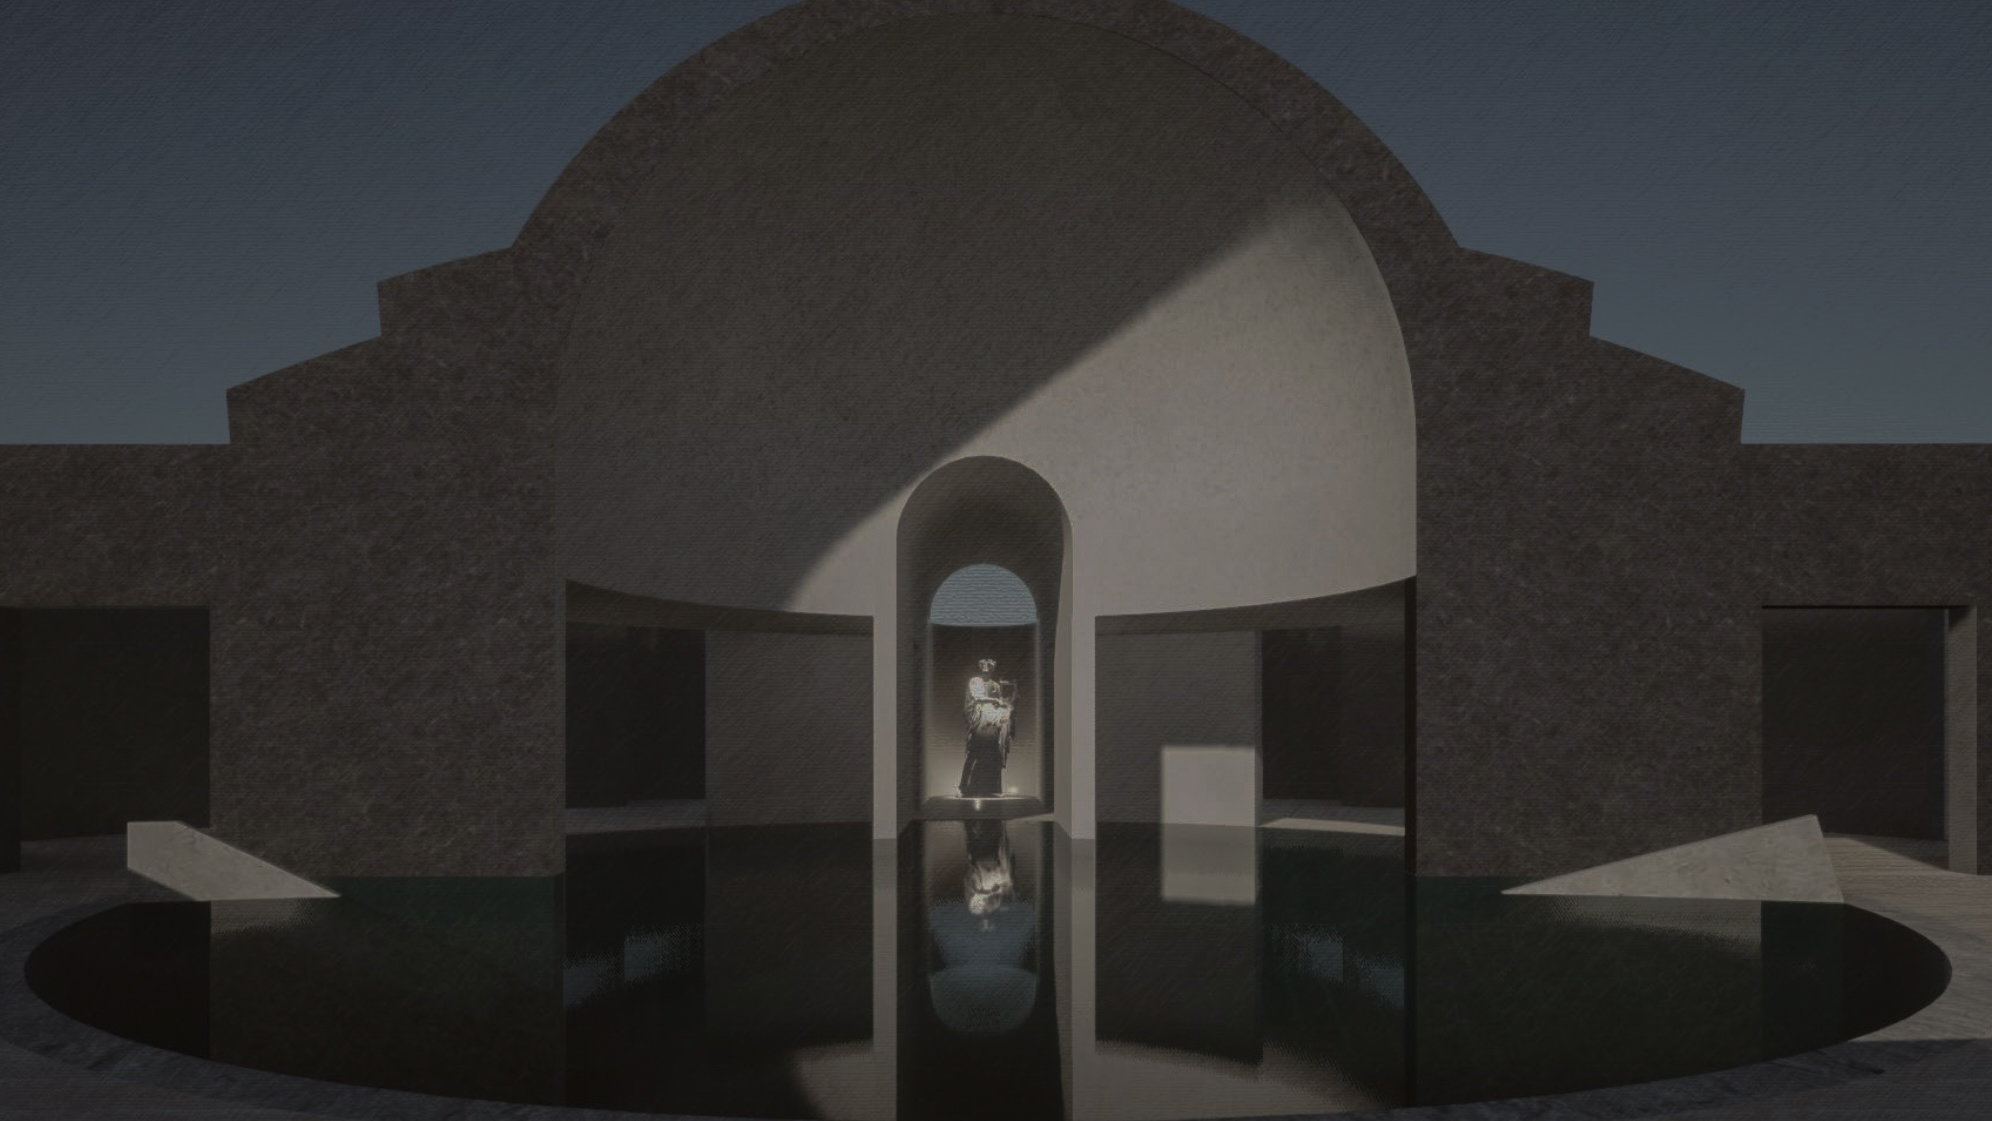
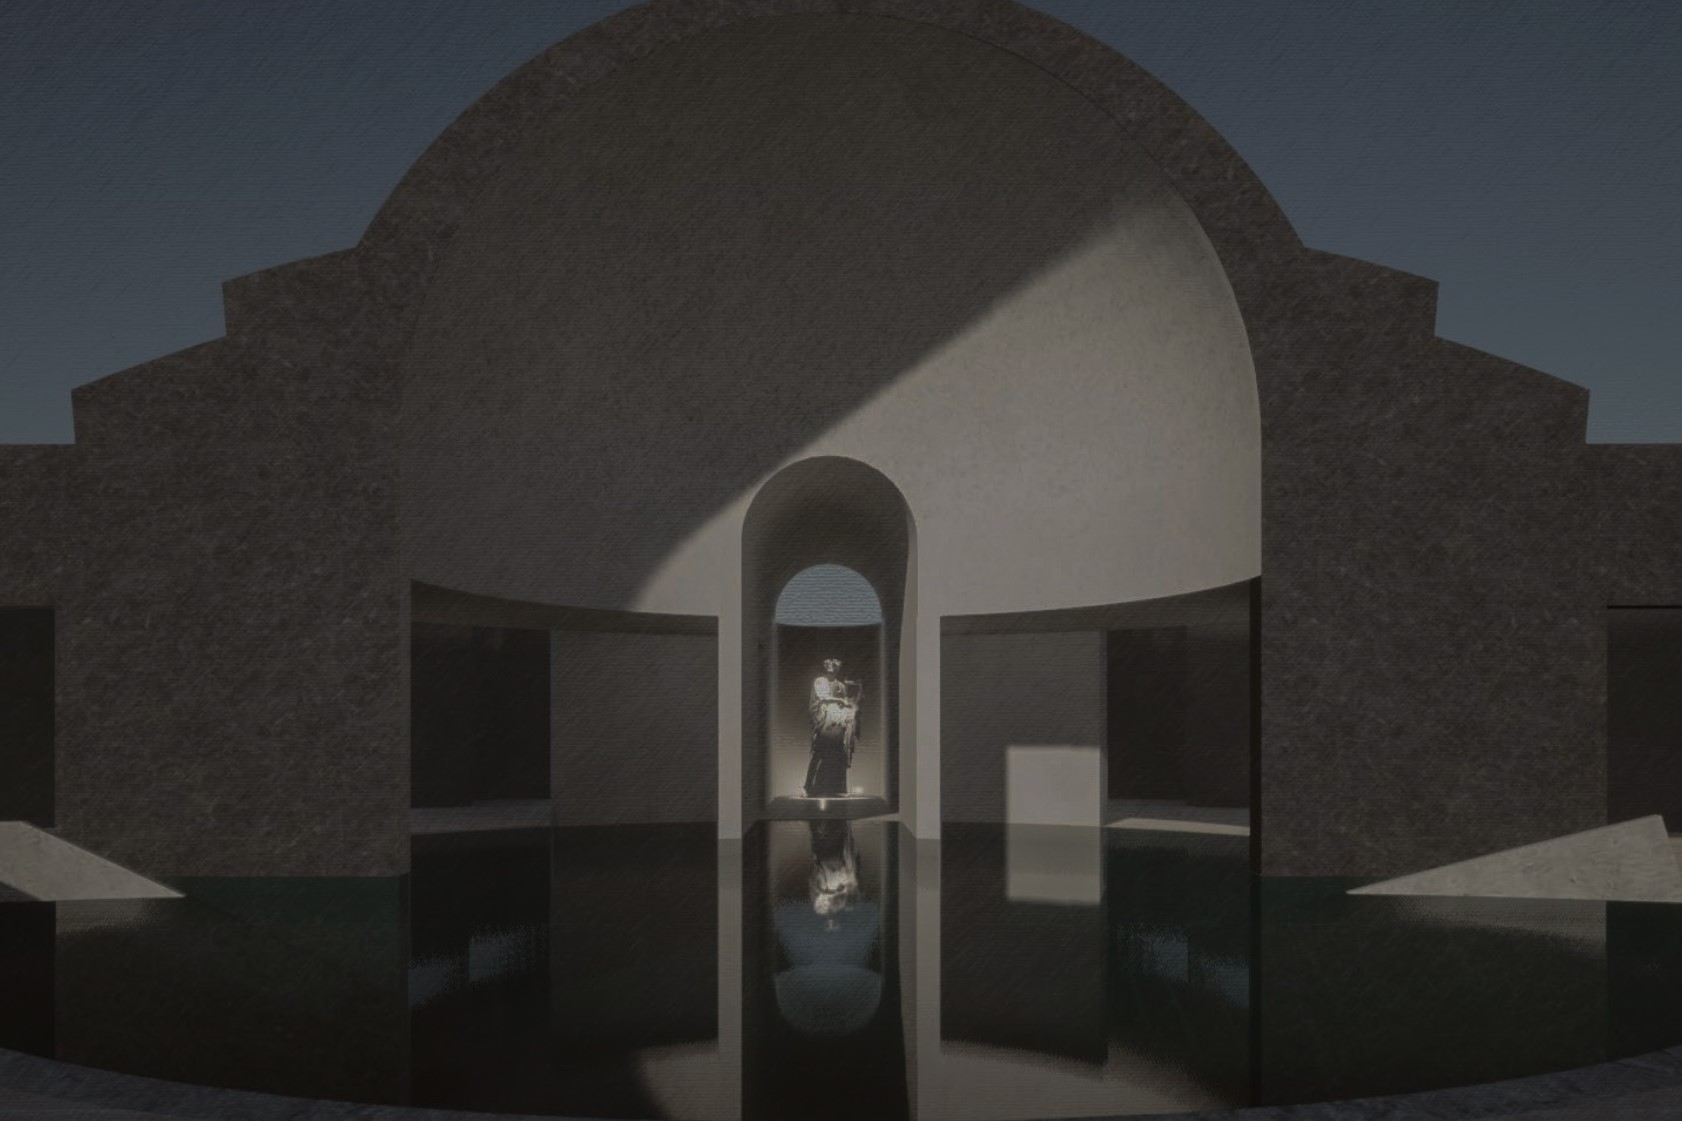
image sizes adj
Adjustment of the image sizes for project5 and project6, and addition of links to the Architecture and Yacht Design buttons in the dropdown menu

diff --git a/index.html b/index.html
@@ -402,14 +402,14 @@ body {
             <div class="dropdown">
     <a href="portfolio.html" class="active">Portfolio</a>
     <div class="dropdown-content">
-        <div class="section-title">Architecture</div>
+        <div class="section-title" onclick="location.href='architettura.html';">Architecture</div>
         <a href="rifugio_graffer.html">Rifugio Graffer al Grostè</a>
         <a href="bottega_simonetti.html">Bottega Simonetti</a>
         <a href="acropoli_atene.html">Acropoli di Atene</a>
         <a href="magna_grecia.html">Magna Grecia</a>
         <a href="piranesi.html">Piranesi Prix de Rome</a>
         <a href="magnolia9.html">Magnolia 9</a>
-        <div class="section-title">Yacht Design</div>
+        <div class="section-title" onclick="location.href='yacht-design.html';">Yacht Design</div>
         <a href="jiwa.html">SD112 Jiwa</a>
         <a href="ferry.html">BlockWonder Ferry</a>
     </div>
